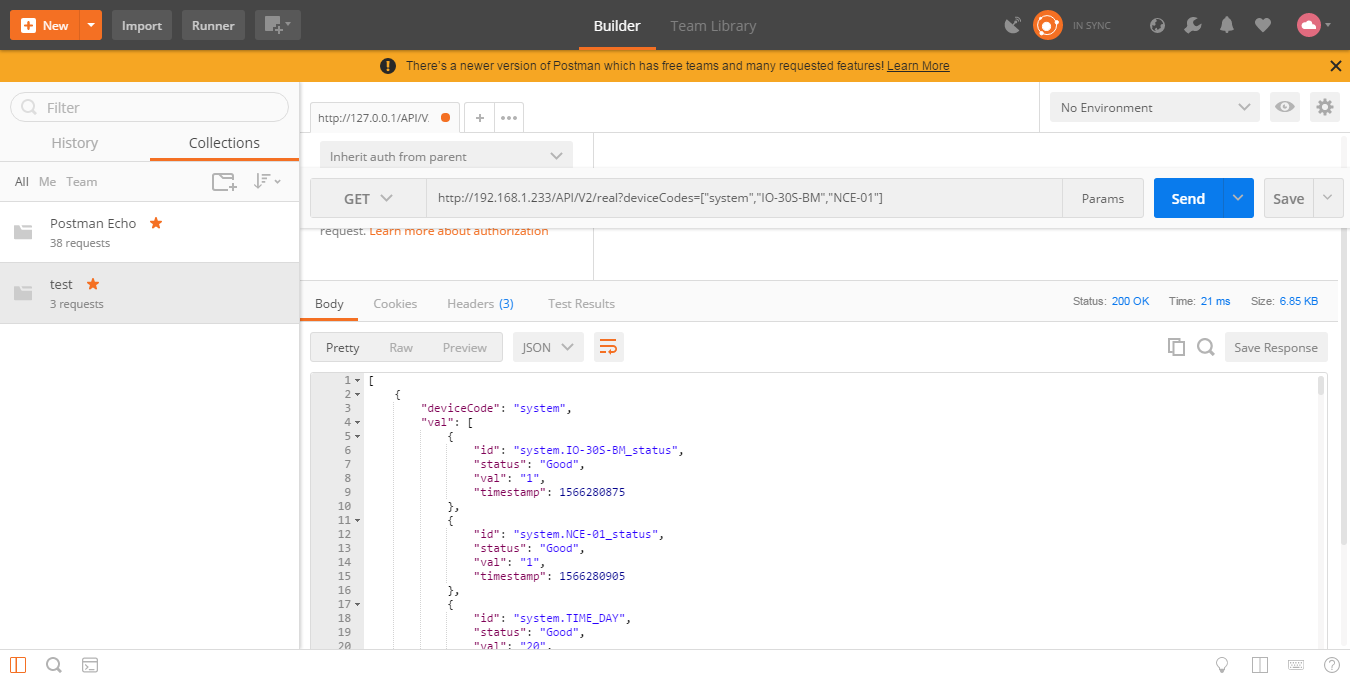
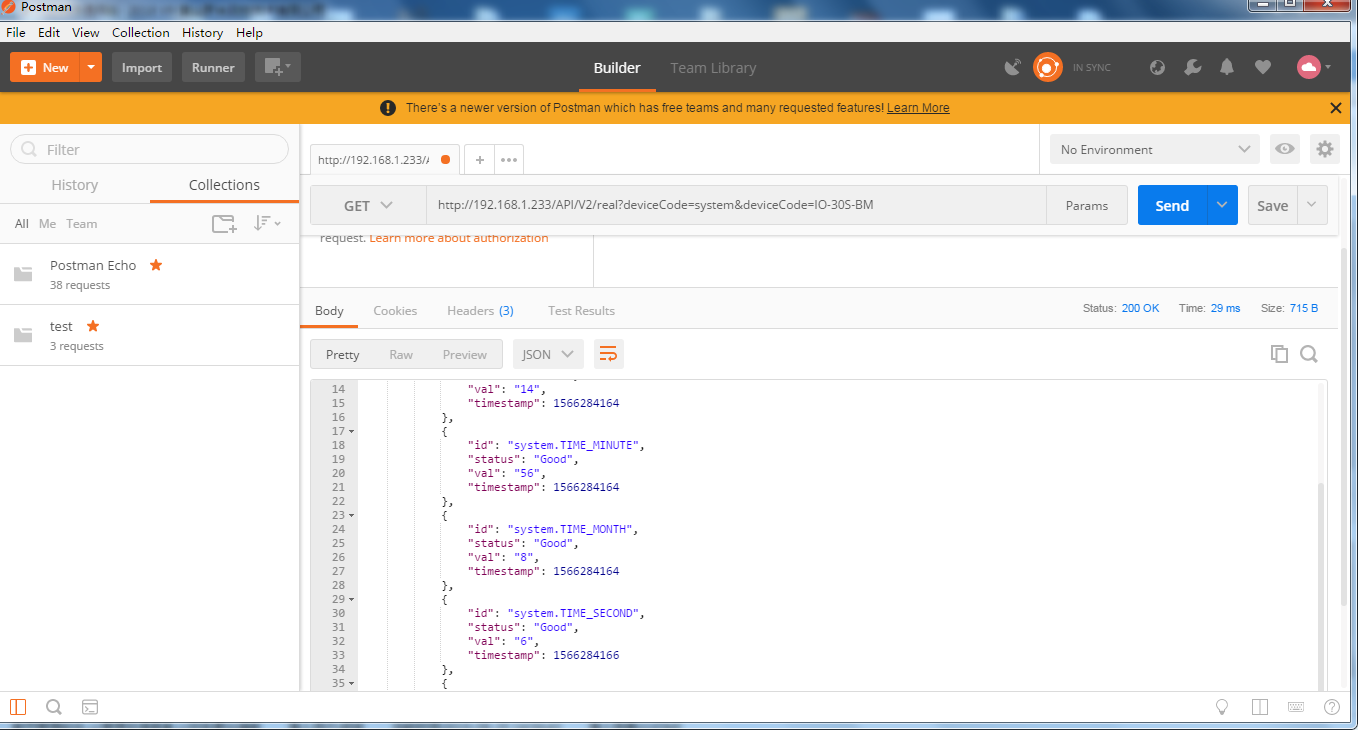
修改查询多个设备数据的url

diff --git a/ch2/ch2-5.md b/ch2/ch2-5.md
@@ -158,7 +158,7 @@
 
 ##### URL（获取实时数据地址）：
 
-> http://192.168.1.233/API/V2/real?deviceCodes=["system","IO-30S-BM","NCE-01"] (192.168.1.233为需要查询的网关的ip地址，["system","IO-30S-BM","NCE-01"]为需要获取数据的设备名称数组)
+> http://192.168.1.233/API/V2/real?deviceCode=system&deviceCode=IO-30S-BM (192.168.1.233为需要查询的网关的ip地址，system和IO-30S-BM为需要获取数据的设备名称)
 
 ##### HTTP请求方式：
 
@@ -166,7 +166,7 @@
 
 ##### 请求参数:
 
-> deviceCodes
+> deviceCode
 
 ##### 返回结果格式:
 
@@ -217,23 +217,6 @@
                 "id": "IO-30S-BM.AI 2",
                 "status": "Good",
                 "val": "0",
-                "timestamp": 1566281009
-            }
-        ]
-    },
-    {
-        "deviceCode": "NCE-01",
-        "val": [
-            {
-                "id": "NCE-01.NCE-01/Energy.MV1",
-                "status": "Good",
-                "val": "1.000000",
-                "timestamp": 1566281009
-            },
-            {
-                "id": "NCE-01.NCE-01/Energy.MV2",
-                "status": "Good",
-                "val": "1.000000",
                 "timestamp": 1566281009
             }
         ]
